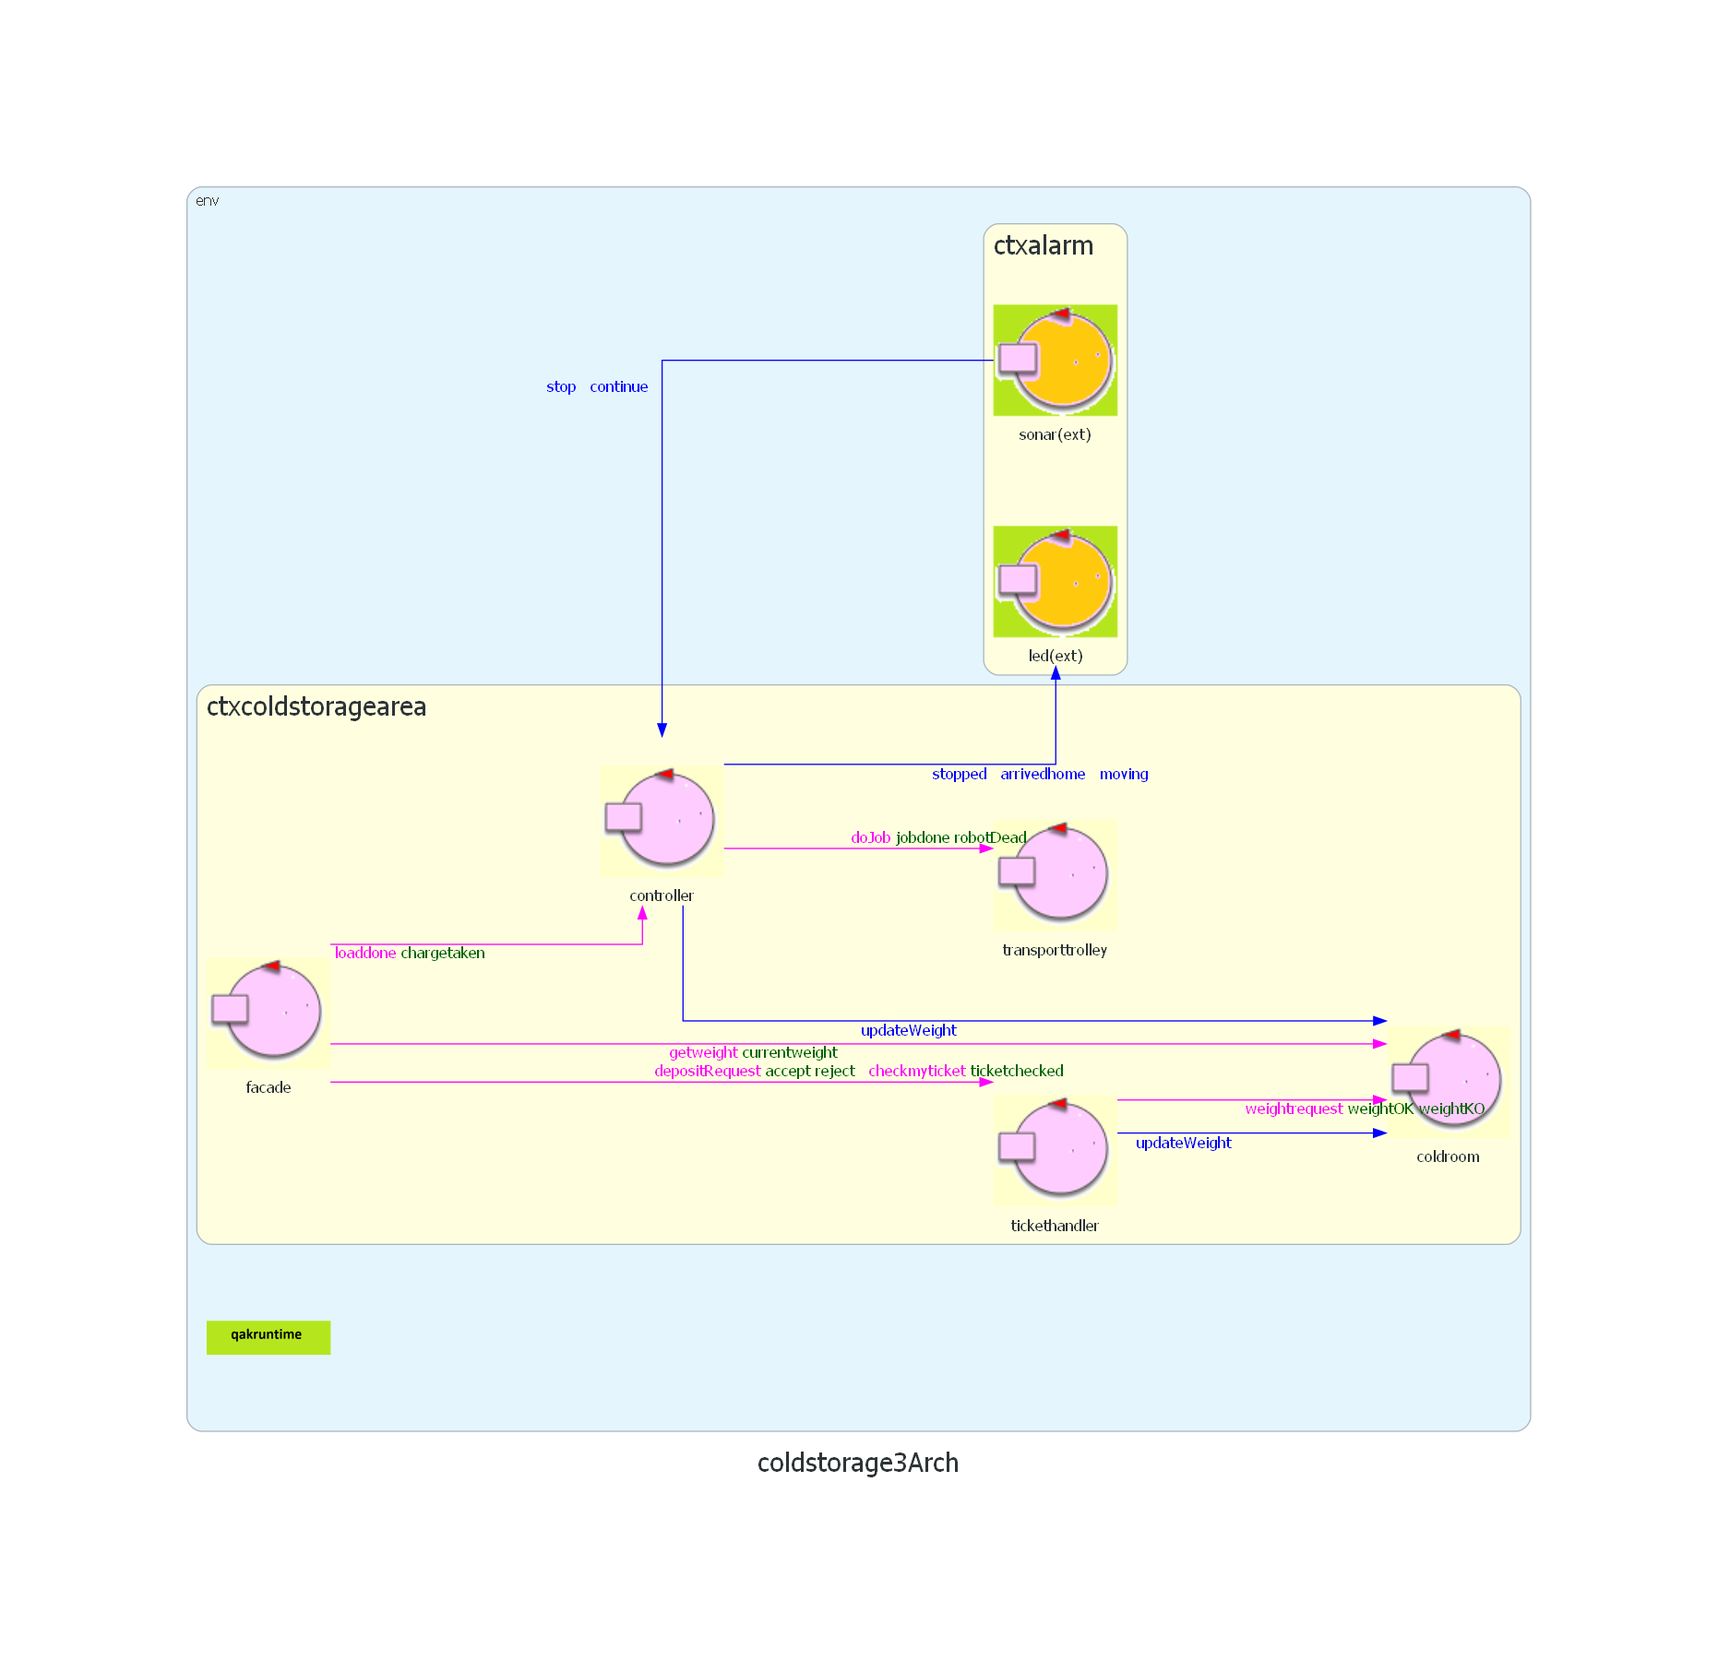
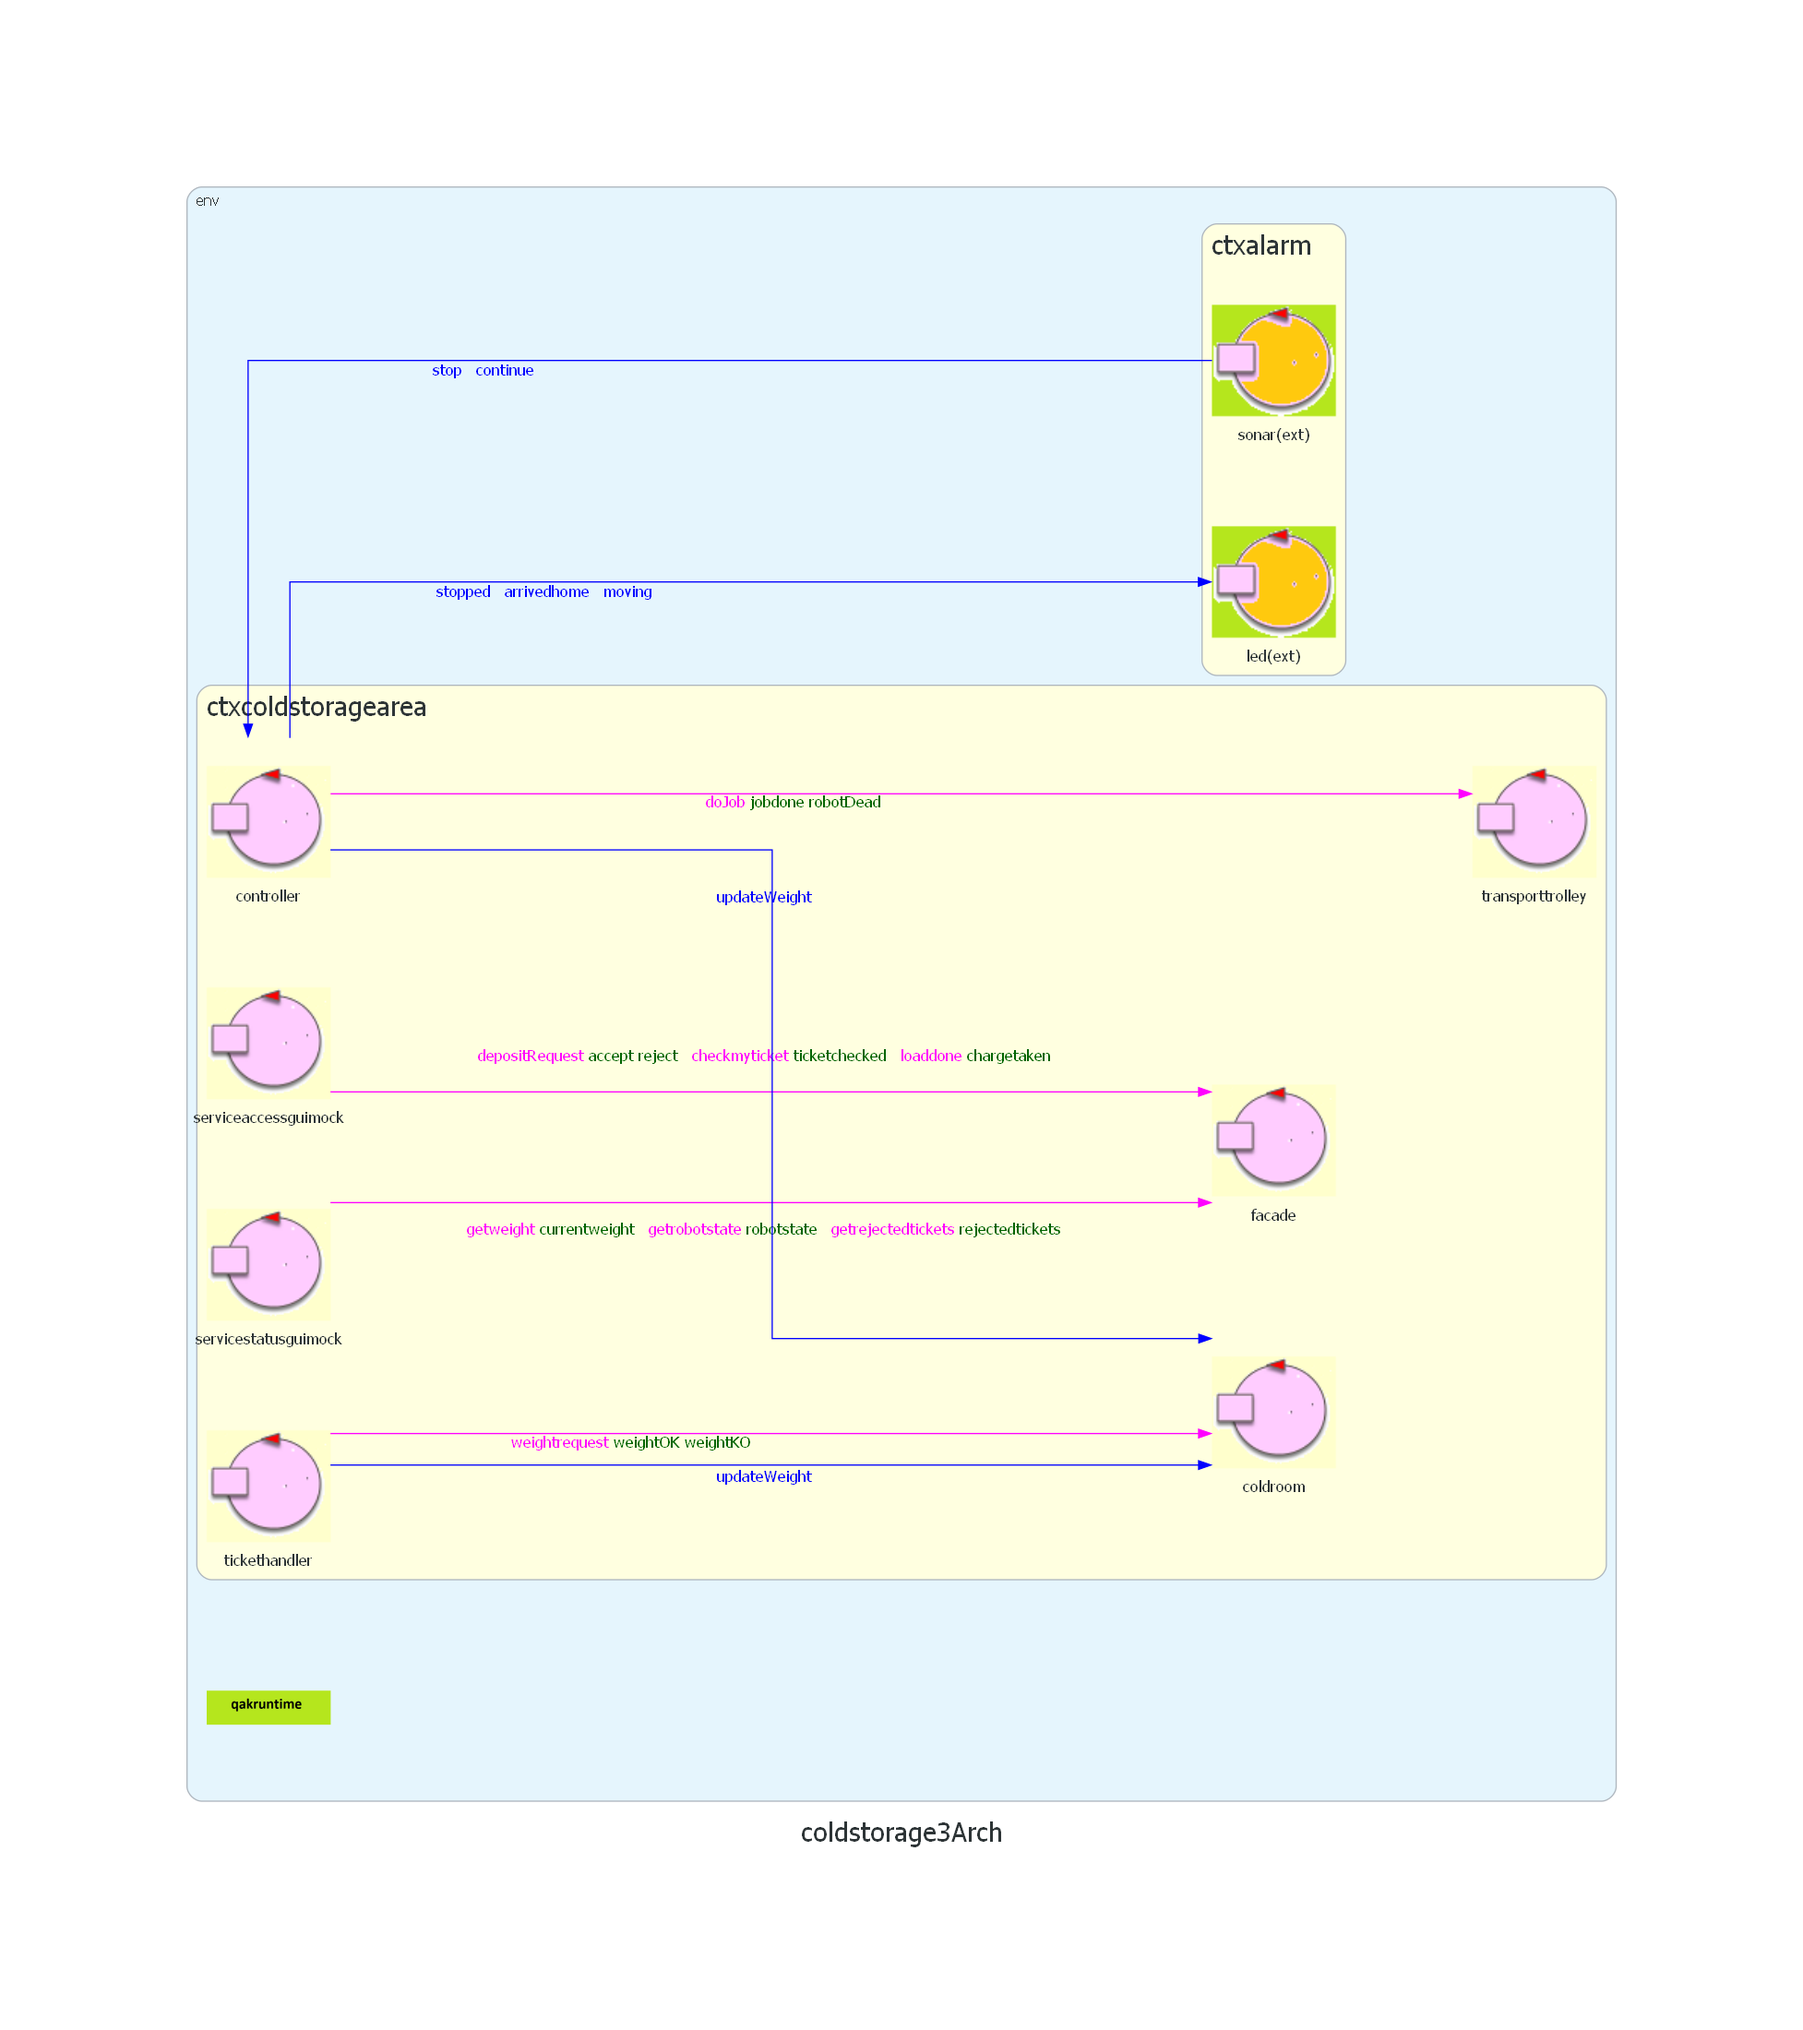
aggiornamento grafici pre decisione "facade"

diff --git a/Sprint2/Codice/ColdStorage/Arch_coldstorage2Modificato.py b/Sprint2/Codice/ColdStorage/Arch_coldstorage2Modificato.py
@@ -6,7 +6,6 @@ os.environ['PATH'] += os.pathsep + 'C:/Program Files/Graphviz/bin/'
 
 graphattr = {     #https://www.graphviz.org/doc/info/attrs.html
     'fontsize': '22',
-    'splines':'ortho',
 }
 
 nodeattr = {   
@@ -27,17 +26,16 @@ with Diagram('coldstorage2Arch', show=False, outformat='png', graph_attr=graphat
           coldroom=Custom('coldroom','./qakicons/symActorSmall.png')
           tickethandler=Custom('tickethandler','./qakicons/symActorSmall.png')
           facade=Custom('facade','./qakicons/symActorSmall.png')
+          serviceaccessguimock=Custom('serviceaccessguimock','./qakicons/symActorSmall.png')
           transporttrolley=Custom('transporttrolley','./qakicons/symActorSmall.png')
      with Cluster('ctxalarm', graph_attr=nodeattr):
           led=Custom('led(ext)','./qakicons/externalQActor.png')
           sonar=Custom('sonar(ext)','./qakicons/externalQActor.png')
-     controller >> Edge(minlen="4", color='magenta', style='solid',xlabel='<doJob<font color="darkgreen"> jobdone robotDead</font> &nbsp; >',  fontcolor='magenta') >> transporttrolley
-     tickethandler >> Edge(minlen="4", color='magenta', style='solid',xlabel='<weightrequest<font color="darkgreen"> weightOK weightKO</font> &nbsp; >',  fontcolor='magenta') >> coldroom
-     facade >> Edge(minlen="8", color='magenta', style='solid', xlabel='<depositRequest<font color="darkgreen"> accept reject</font> &nbsp; checkmyticket<font color="darkgreen"> ticketchecked</font> &nbsp; >',  fontcolor='magenta') >> tickethandler
-     facade >> Edge(minlen="4", color='magenta', style='solid', xlabel='<loaddone<font color="darkgreen"> chargetaken</font> &nbsp; >',  fontcolor='magenta') >> controller
-     facade >> Edge(minlen="4", color='magenta', style='solid', xlabel='<getweight<font color="darkgreen"> currentweight</font> &nbsp; >',  fontcolor='magenta') >> coldroom
+     serviceaccessguimock >> Edge(color='magenta', style='solid', label='<depositRequest<font color="darkgreen"> accept reject</font> &nbsp; checkmyticket<font color="darkgreen"> ticketchecked</font> &nbsp; loaddone<font color="darkgreen"> chargetaken</font> &nbsp; >',  fontcolor='magenta') >> facade
+     controller >> Edge(minlen="4", color='magenta', style='solid', xlabel='<doJob<font color="darkgreen"> jobdone robotDead</font> &nbsp; >',  fontcolor='magenta') >> transporttrolley
+     tickethandler >> Edge(minlen="4", color='magenta', style='solid', xlabel='<weightrequest<font color="darkgreen"> weightOK weightKO</font> &nbsp; >',  fontcolor='magenta') >> coldroom
      controller >> Edge(minlen="4", color='blue', style='solid', xlabel='<updateWeight &nbsp; >',  fontcolor='blue') >> coldroom
      controller >> Edge(minlen="4", color='blue', style='solid', xlabel='<stopped &nbsp; arrivedhome &nbsp; moving &nbsp; >',  fontcolor='blue') >> led
      tickethandler >> Edge(minlen="4", color='blue', style='solid', xlabel='<updateWeight &nbsp; >',  fontcolor='blue') >> coldroom
-     sonar >> Edge(minlen="4", color='blue', style='solid', xlabel='<stop &nbsp; continue &nbsp; >',  fontcolor='blue') >> controller
+     sonar >> Edge(color='blue', style='solid',  xlabel='<stop &nbsp; continue &nbsp; >',  fontcolor='blue') >> controller
 diag

diff --git a/Sprint3/Codice/ColdStorage3/Arch_coldstorage3Modificato.py b/Sprint3/Codice/ColdStorage3/Arch_coldstorage3Modificato.py
@@ -1,0 +1,43 @@
+### conda install diagrams
+from diagrams import Cluster, Diagram, Edge
+from diagrams.custom import Custom
+import os
+os.environ['PATH'] += os.pathsep + 'C:/Program Files/Graphviz/bin/'
+
+graphattr = {     #https://www.graphviz.org/doc/info/attrs.html
+    'fontsize': '22',
+}
+
+nodeattr = {   
+    'fontsize': '22',
+    'bgcolor': 'lightyellow'
+}
+
+eventedgeattr = {
+    'color': 'red',
+    'style': 'dotted'
+}
+with Diagram('coldstorage3Arch', show=False, outformat='png', graph_attr=graphattr) as diag:
+  with Cluster('env'):
+     sys = Custom('','./qakicons/system.png')
+### see https://renenyffenegger.ch/notes/tools/Graphviz/attributes/label/HTML-like/index
+     with Cluster('ctxcoldstoragearea', graph_attr=nodeattr):
+          controller=Custom('controller','./qakicons/symActorSmall.png')
+          coldroom=Custom('coldroom','./qakicons/symActorSmall.png')
+          tickethandler=Custom('tickethandler','./qakicons/symActorSmall.png')
+          transporttrolley=Custom('transporttrolley','./qakicons/symActorSmall.png')
+          facade=Custom('facade','./qakicons/symActorSmall.png')
+          serviceaccessguimock=Custom('serviceaccessguimock','./qakicons/symActorSmall.png')
+          servicestatusguimock=Custom('servicestatusguimock','./qakicons/symActorSmall.png')
+     with Cluster('ctxalarm', graph_attr=nodeattr):
+          led=Custom('led(ext)','./qakicons/externalQActor.png')
+          sonar=Custom('sonar(ext)','./qakicons/externalQActor.png')
+     serviceaccessguimock >> Edge(minlen="4", color='magenta', style='solid', label='<depositRequest<font color="darkgreen"> accept reject</font> &nbsp; checkmyticket<font color="darkgreen"> ticketchecked</font> &nbsp; loaddone<font color="darkgreen"> chargetaken</font> &nbsp; >',  fontcolor='magenta') >> facade
+     servicestatusguimock >> Edge(minlen="4", color='magenta', style='solid', label='<getweight<font color="darkgreen"> currentweight</font> &nbsp; getrobotstate<font color="darkgreen"> robotstate</font> &nbsp; getrejectedtickets<font color="darkgreen"> rejectedtickets</font> &nbsp; >',  fontcolor='magenta') >> facade
+     controller >> Edge(minlen="6", color='magenta', style='solid', xlabel='<doJob<font color="darkgreen"> jobdone robotDead</font> &nbsp; >',  fontcolor='magenta') >> transporttrolley
+     tickethandler >> Edge(minlen="4", color='magenta', style='solid', xlabel='<weightrequest<font color="darkgreen"> weightOK weightKO</font> &nbsp; >',  fontcolor='magenta') >> coldroom
+     controller >> Edge(minlen="4", color='blue', style='solid',  label='<updateWeight &nbsp; >',  fontcolor='blue') >> coldroom
+     controller >> Edge(minlen="4", color='blue', style='solid',  xlabel='<stopped &nbsp; arrivedhome &nbsp; moving &nbsp; >',  fontcolor='blue') >> led
+     tickethandler >> Edge(minlen="4", color='blue', style='solid',  label='<updateWeight &nbsp; >',  fontcolor='blue') >> coldroom
+     sonar >> Edge(minlen="4", color='blue', style='solid',  xlabel='<stop &nbsp; continue &nbsp; >',  fontcolor='blue') >> controller
+diag

diff --git a/Sprint1.1/Codice/ColdStorageSprint2/Arch_coldstorage11Modificato.py b/Sprint1.1/Codice/ColdStorageSprint2/Arch_coldstorage11Modificato.py
@@ -1,0 +1,36 @@
+### conda install diagrams
+from diagrams import Cluster, Diagram, Edge
+from diagrams.custom import Custom
+import os
+os.environ['PATH'] += os.pathsep + 'C:/Program Files/Graphviz/bin/'
+
+graphattr = {     #https://www.graphviz.org/doc/info/attrs.html
+    'fontsize': '22',
+}
+
+nodeattr = {   
+    'fontsize': '22',
+    'bgcolor': 'lightyellow'
+}
+
+eventedgeattr = {
+    'color': 'red',
+    'style': 'dotted'
+}
+with Diagram('coldstorage11Arch', show=False, outformat='png', graph_attr=graphattr) as diag:
+  with Cluster('env'):
+     sys = Custom('','./qakicons/system.png')
+### see https://renenyffenegger.ch/notes/tools/Graphviz/attributes/label/HTML-like/index
+     with Cluster('ctxcoldstoragearea', graph_attr=nodeattr):
+          controller=Custom('controller','./qakicons/symActorSmall.png')
+          coldroom=Custom('coldroom','./qakicons/symActorSmall.png')
+          tickethandler=Custom('tickethandler','./qakicons/symActorSmall.png')
+          facade=Custom('facade','./qakicons/symActorSmall.png')
+          serviceaccessguimock=Custom('serviceaccessguimock','./qakicons/symActorSmall.png')
+          transporttrolley=Custom('transporttrolley','./qakicons/symActorSmall.png')
+     serviceaccessguimock >> Edge(color='magenta', style='solid', label='<depositRequest<font color="darkgreen"> accept reject</font> &nbsp; checkmyticket<font color="darkgreen"> ticketchecked</font> &nbsp; loaddone<font color="darkgreen"> chargetaken</font> &nbsp; >',  fontcolor='magenta') >> facade
+     controller >> Edge(minlen="1", color='magenta', style='solid', xlabel='<doJob<font color="darkgreen"> jobdone robotDead</font> &nbsp; >',  fontcolor='magenta') >> transporttrolley
+     tickethandler >> Edge(minlen="1", color='magenta', style='solid', xlabel='<weightrequest<font color="darkgreen"> weightOK weightKO</font> &nbsp; >',  fontcolor='magenta') >> coldroom
+     controller >> Edge(minlen="1", color='blue', style='solid',  xlabel='<updateWeight &nbsp; >',  fontcolor='blue') >> coldroom
+     tickethandler >> Edge(minlen="1", color='blue', style='solid',  xlabel='<updateWeight &nbsp; >',  fontcolor='blue') >> coldroom
+diag

diff --git a/Sprint1.0/Codice/ColdStorage/Arch_coldstorage10Modificato.py b/Sprint1.0/Codice/ColdStorage/Arch_coldstorage10Modificato.py
@@ -1,0 +1,30 @@
+### conda install diagrams
+from diagrams import Cluster, Diagram, Edge
+from diagrams.custom import Custom
+import os
+os.environ['PATH'] += os.pathsep + 'C:/Program Files/Graphviz/bin/'
+
+graphattr = {     #https://www.graphviz.org/doc/info/attrs.html
+    'fontsize': '22',
+}
+
+nodeattr = {   
+    'fontsize': '22',
+    'bgcolor': 'lightyellow'
+}
+
+eventedgeattr = {
+    'color': 'red',
+    'style': 'dotted'
+}
+with Diagram('coldstorage10Arch', show=False, outformat='png', graph_attr=graphattr) as diag:
+  with Cluster('env'):
+     sys = Custom('','./qakicons/system.png')
+### see https://renenyffenegger.ch/notes/tools/Graphviz/attributes/label/HTML-like/index
+     with Cluster('ctxcoldstoragearea', graph_attr=nodeattr):
+          controller=Custom('controller','./qakicons/symActorSmall.png')
+          coldroom=Custom('coldroom','./qakicons/symActorSmall.png')
+          transporttrolley=Custom('transporttrolley','./qakicons/symActorSmall.png')
+     controller >> Edge(minlen="3", color='magenta', style='solid', xlabel='<doJob<font color="darkgreen"> jobdone robotDead</font> &nbsp; >',  fontcolor='magenta') >> transporttrolley
+     controller >> Edge(color='blue', style='solid',  label='<updateWeight &nbsp; >',  fontcolor='blue') >> coldroom
+diag

diff --git a/Sprint1.1/Doc/Sprint 1.1 - V3.md b/Sprint1.1/Doc/Sprint 1.1 - V3.md
@@ -159,10 +159,10 @@ In entrambi i casi usiamo la somma tra peso effettivo e peso promesso.
 __PROBLEMA:__ Usando pagine html statiche, anche mantenendo aggiornato il peso corrente nel server spring l'utente deve ricaricare la pagina per visualizzare il nuovo peso.
 Si tratta di un problema di poco conto che non giustifica un cambiamento verso pagine html dinamiche e non verrà trattato.
 ##### Architettura logica dopo l'analisi del problema
-![[Sprint1.1/Doc/coldstorage2arch.png]]
+![[coldstorage11arch.png]]
 
 ### Test Plan
-Durante la face di testing dovranno essere verificati i seguenti casi:
+Durante la fase di testing dovranno essere verificati i seguenti casi:
 1) Test del processo in condizioni normali
 2) Test con ticket scaduto (facciamo questo) 
 3) Test con ticket ripetuto

diff --git a/Sprint1.0/Doc/Sprint 1.0 - V3.md b/Sprint1.0/Doc/Sprint 1.0 - V3.md
@@ -62,7 +62,7 @@ Il [TransportTrolley](https://github.com/anatali/issLab23/blob/main/iss23Materia
 ##### Peso massimo trasportabile
 Dopo discussioni con il committente è stato decretato che il peso da scaricare non sarà mai maggiore del peso trasportabile del robot fisico. 
 ##### Architettura logica dopo l'analisi del problema
-![[Sprint1.1/Doc/coldstorage2arch.png]]
+![[coldstorage10arch.png]]
 
 ### TestPlan
 Durante la face di testing dovranno essere verificati i seguenti casi:

diff --git a/Sprint2/Doc/Sprint 2.md b/Sprint2/Doc/Sprint 2.md
@@ -3,7 +3,7 @@ Implementazione di Led e Sonar su RaspberryPi.
 > [!NOTE]- Descrizione
 > Nel secondo sprint verranno implementati il sistema di led e sonar con la logica ad essi associata. I due componenti si troveranno su un dispositivo esterno e dovranno interagire con il sistema remotamente.
 
-![[Sprint1.1/Doc/coldstorage2arch.png]]
+![[coldstorage11arch.png]]
 
 ### Requisiti
 
